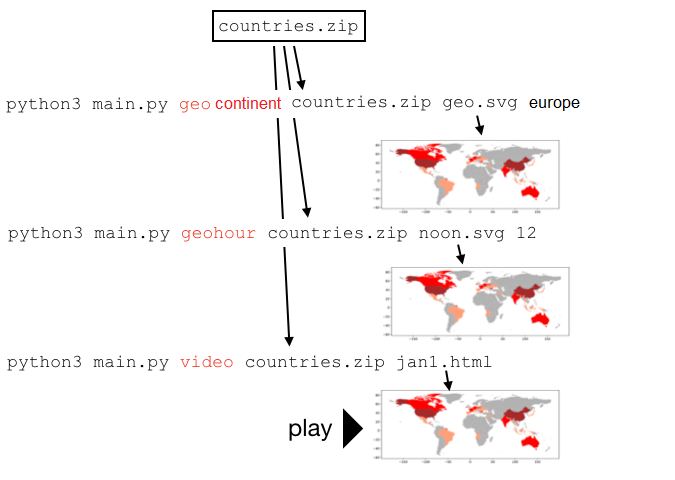
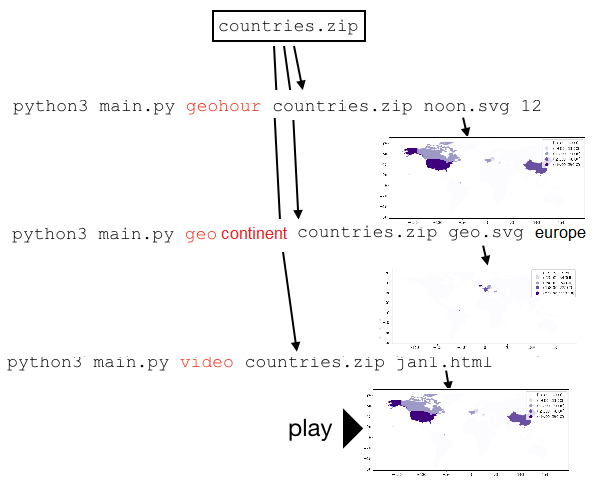
media update

diff --git a/f20/p5/README.md b/f20/p5/README.md
@@ -297,6 +297,9 @@ which generate more requests are drawn darker.  The `video` command will
 generate a 24-frame animation, showing where requests are coming
 from, hour-by-hour.
 
+**Note:** Your colors may look different than the images below due to choice 
+of colors and choice of how to assign colors to countries. 
+
 <img src="media.png">
 
 ### 3. `geohour` Command
